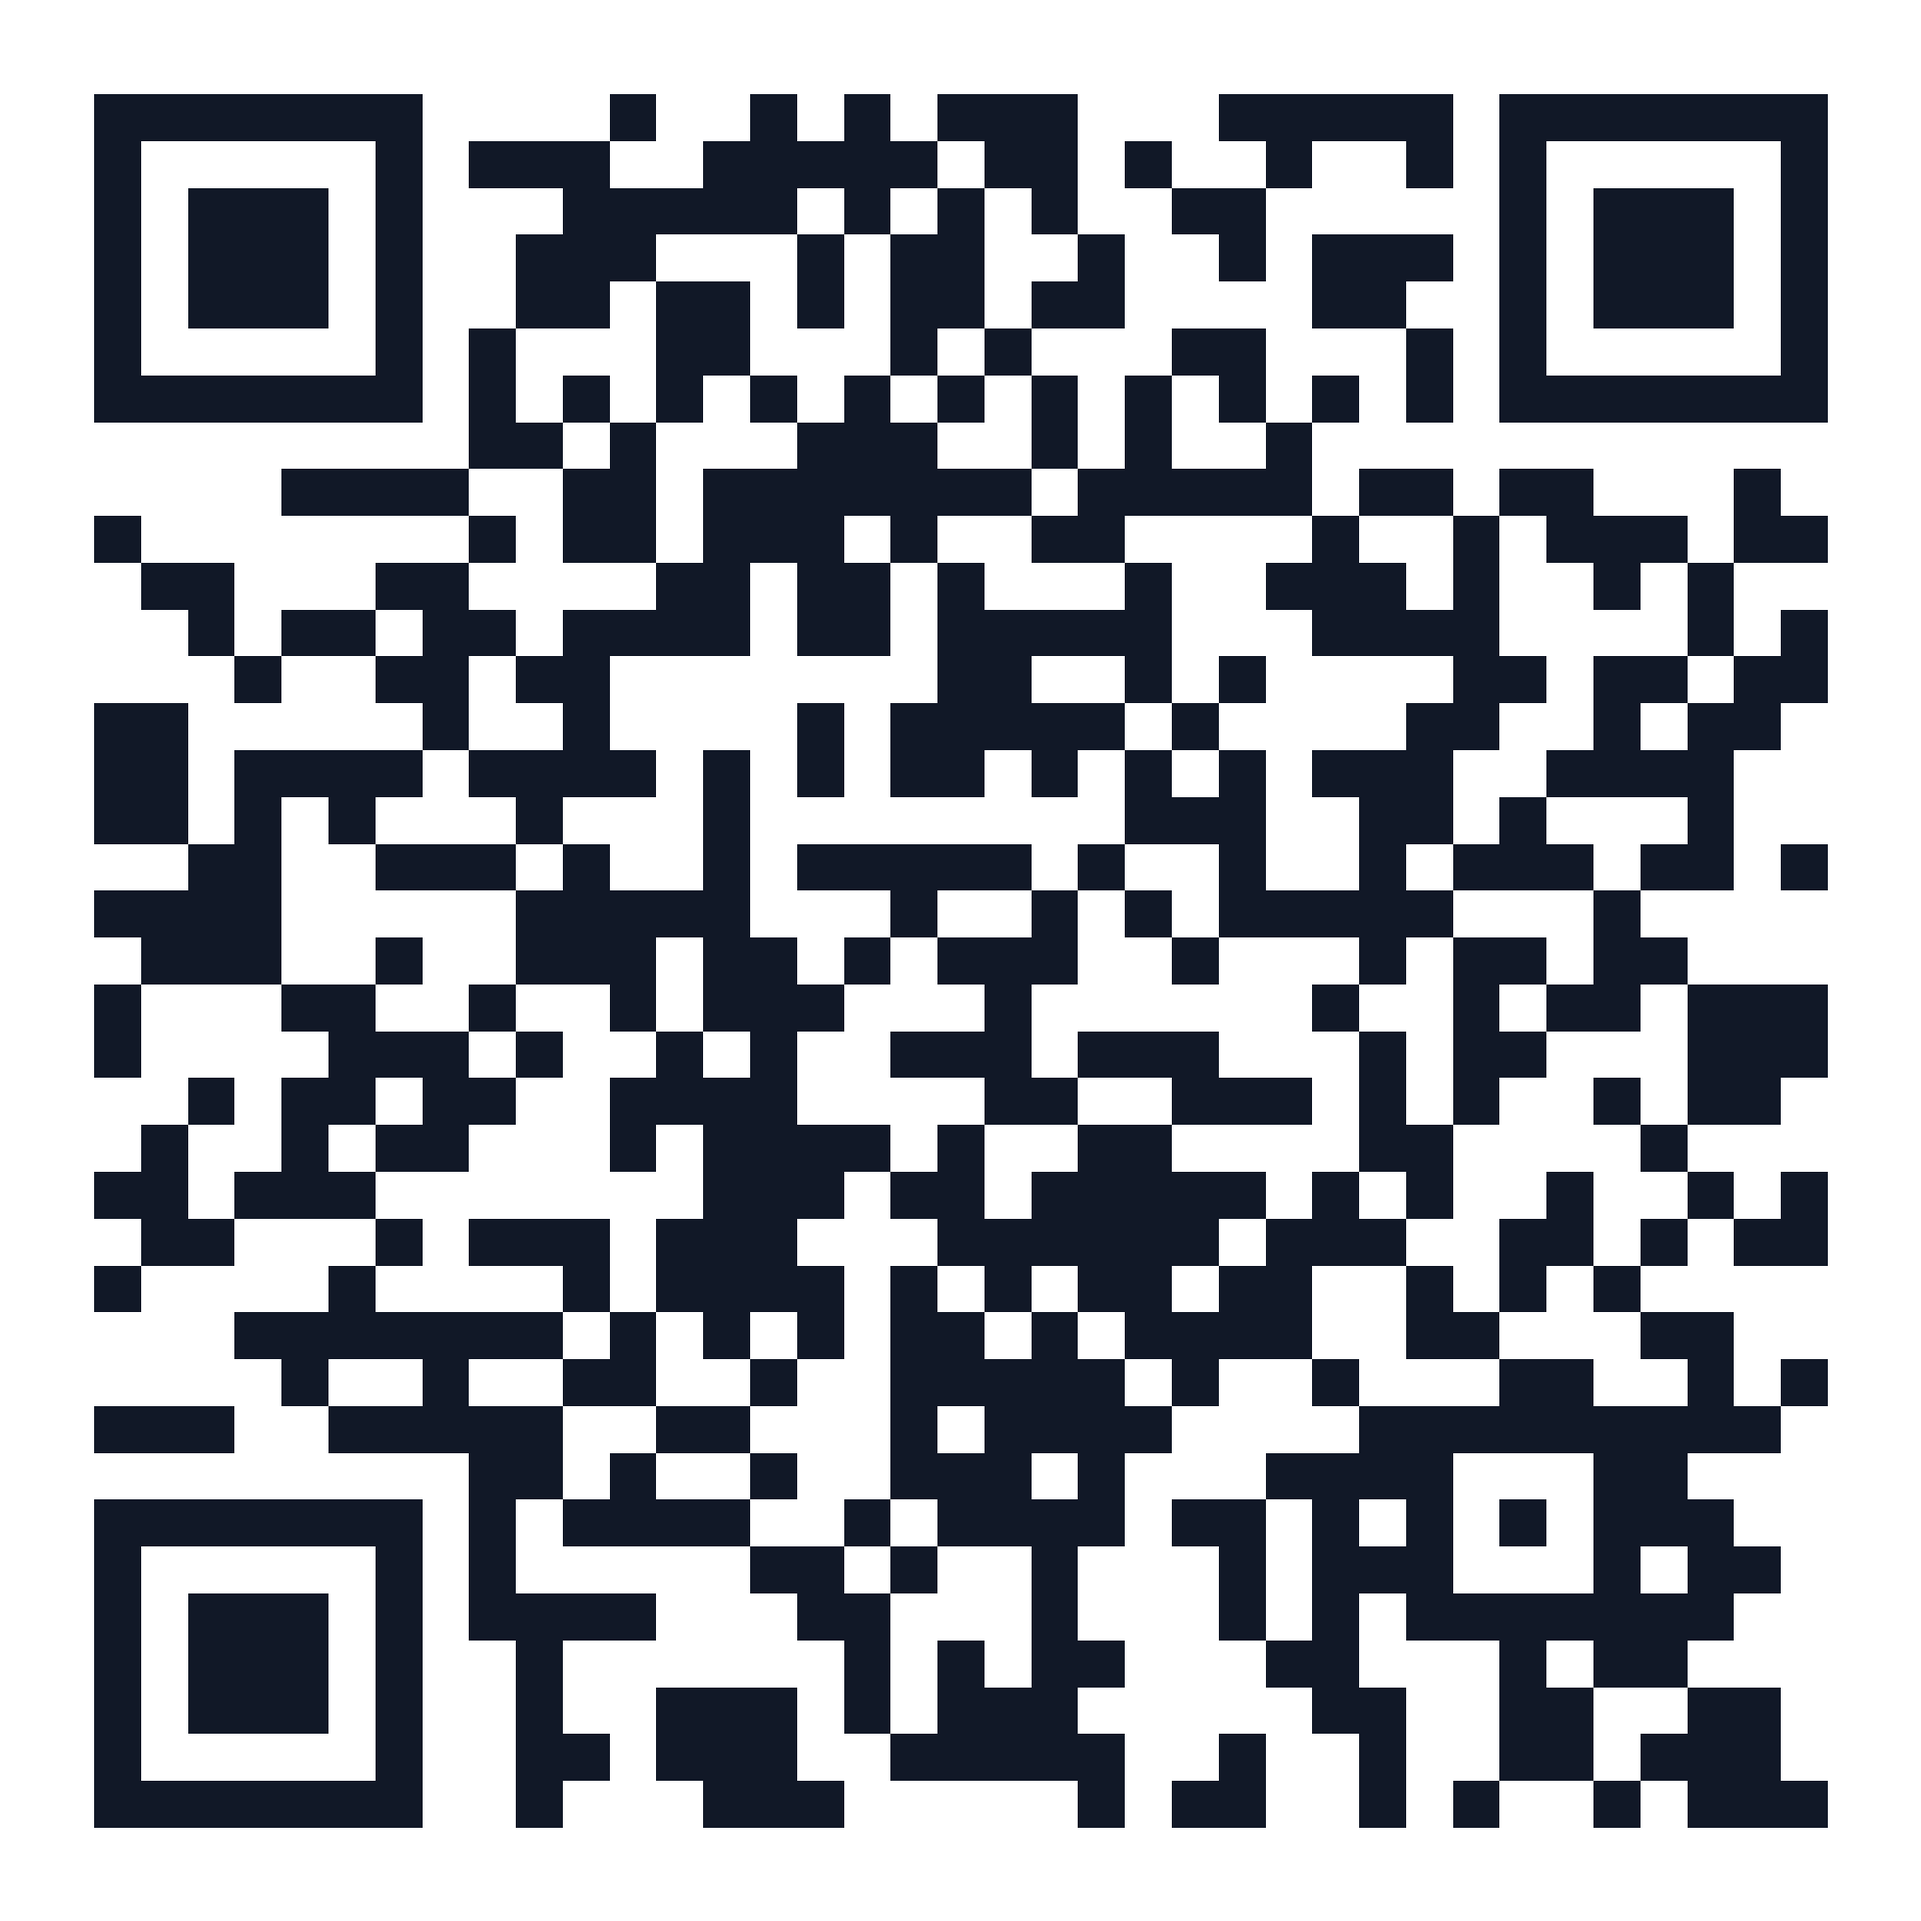
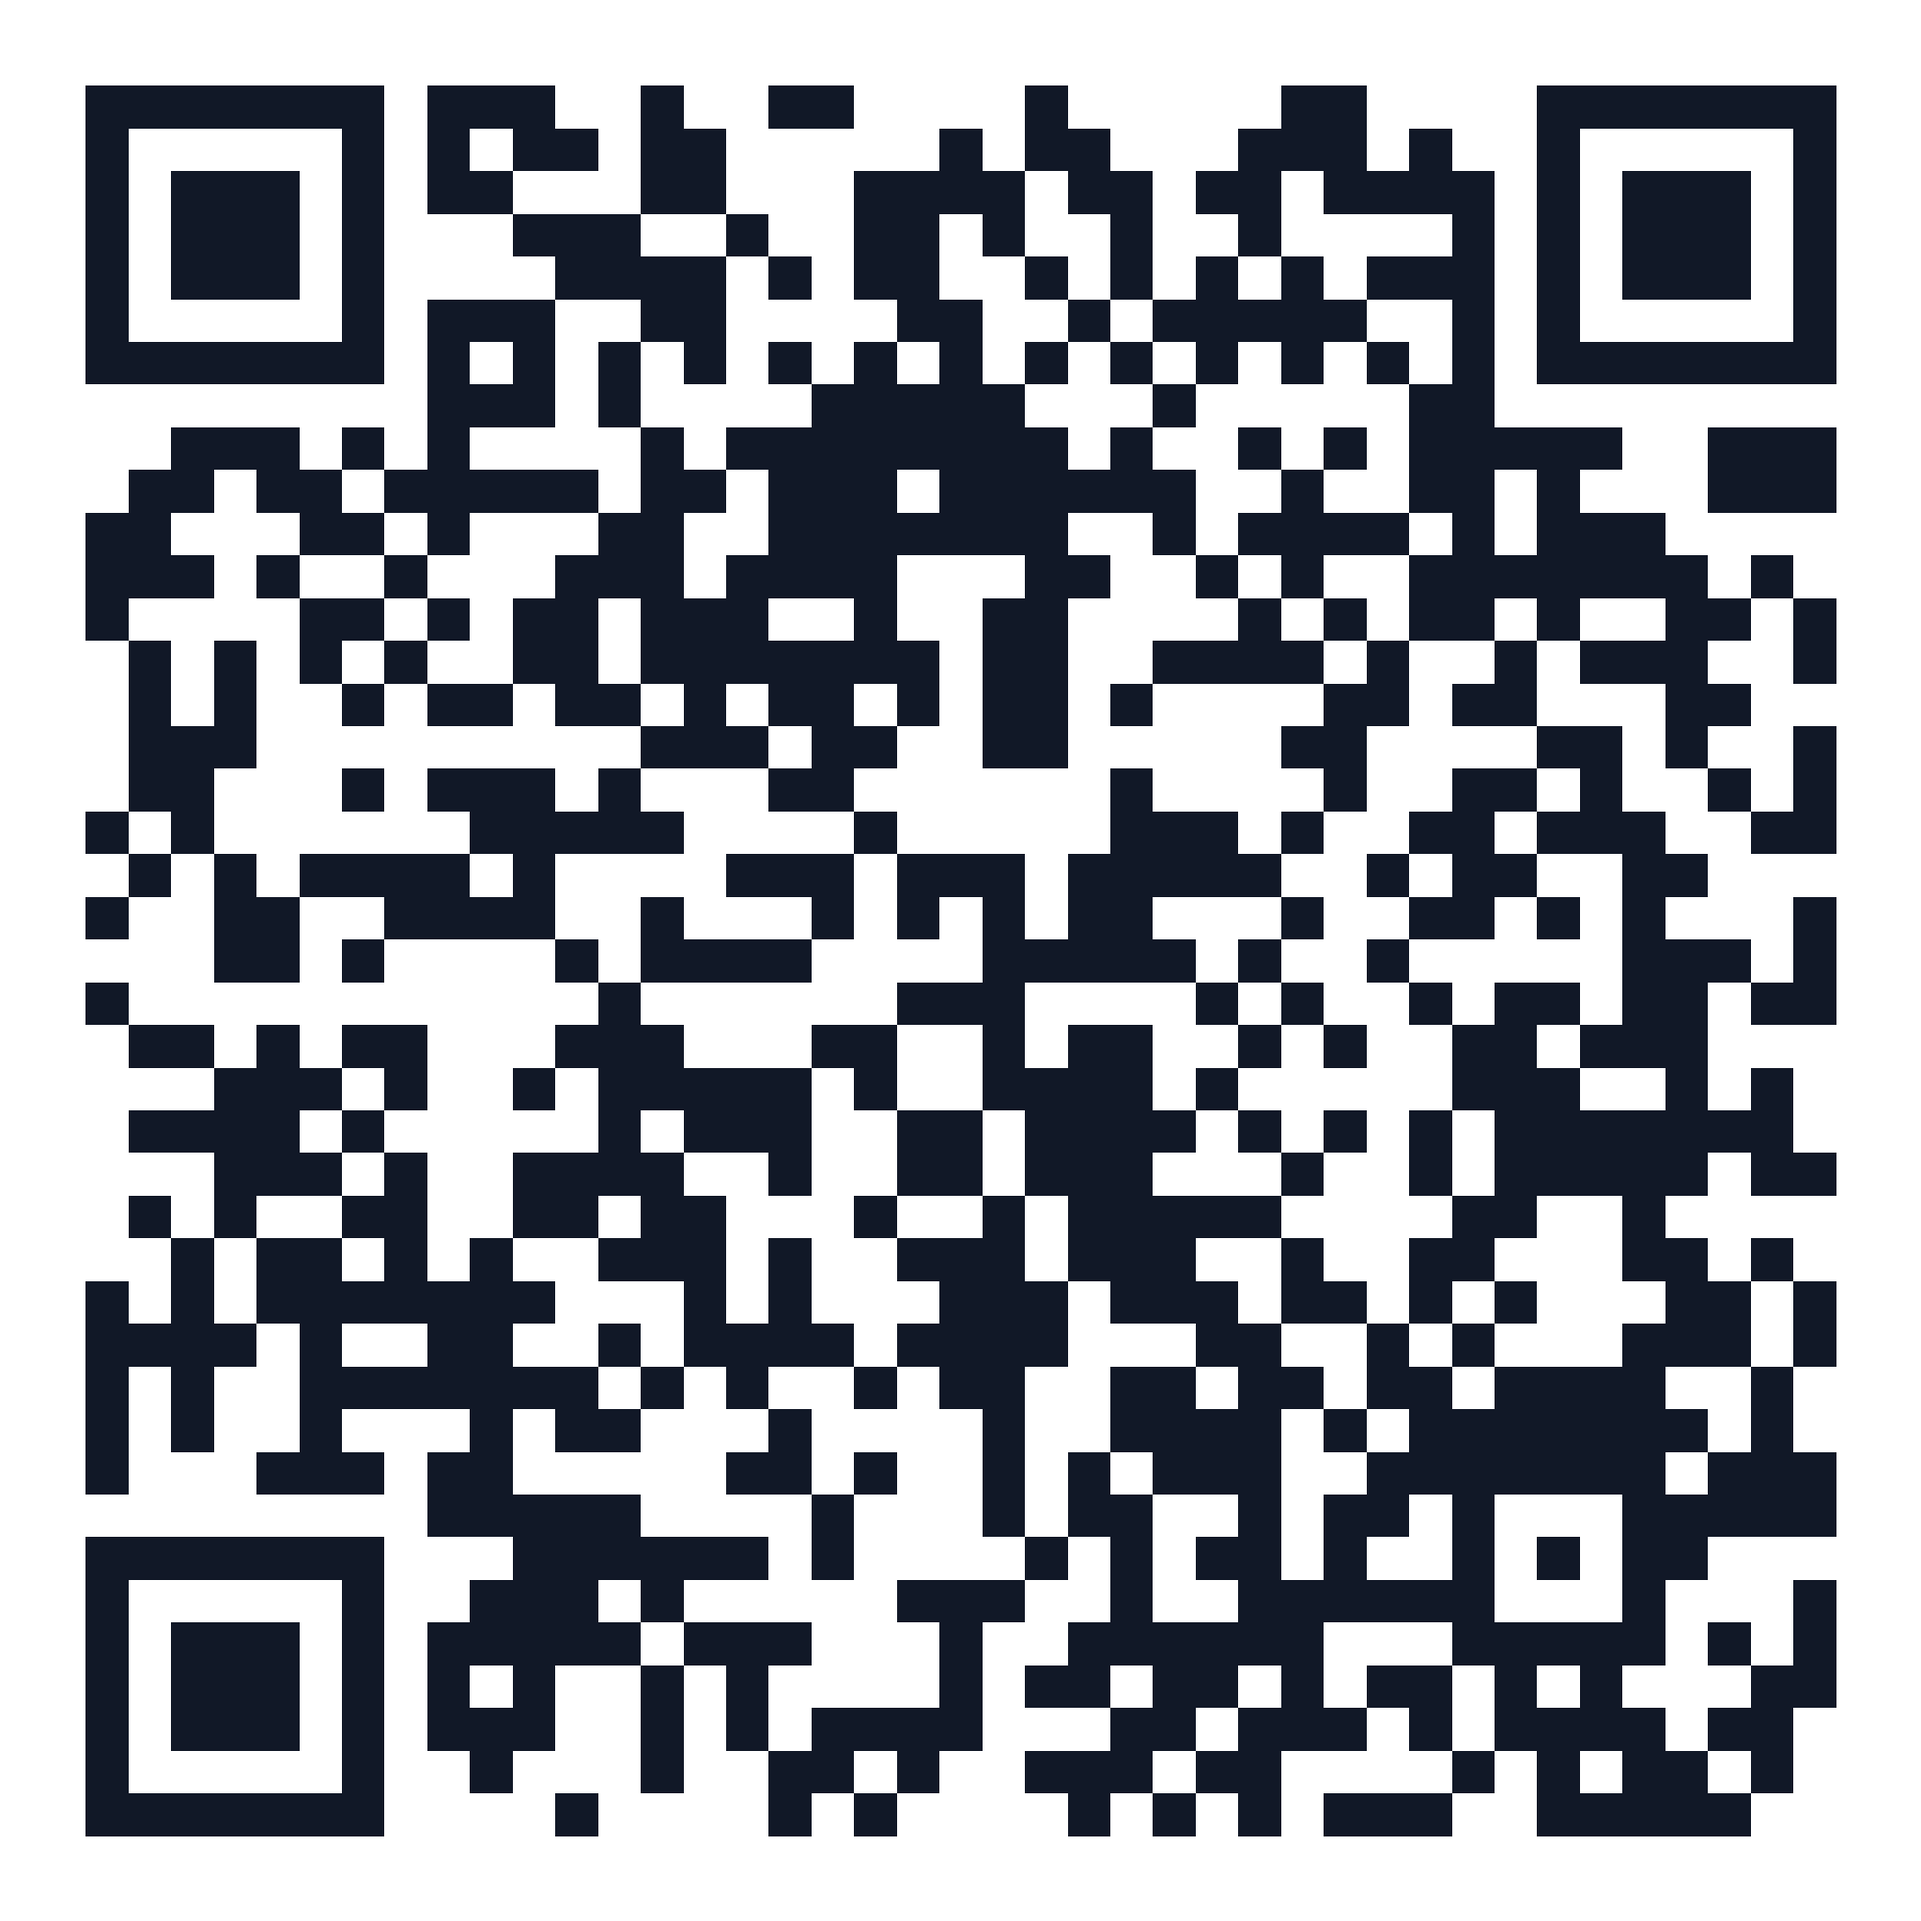
fix: switch from share.google bot tracking link to clean search link to remove captcha

diff --git a/index.html b/index.html
@@ -76,9 +76,9 @@
       <div class="mt-6 inline-flex flex-wrap items-center justify-center gap-2 bg-slate-900/90 border border-slate-800 rounded-2xl p-2.5 sm:px-5 text-sm shadow-xl backdrop-blur-md">
         <span class="text-slate-400 font-medium">Target Link:</span>
         <code id="displayTargetUrl" class="text-sky-400 font-mono text-xs sm:text-sm bg-slate-950 px-2 py-1 rounded border border-slate-800 break-all select-all">
-          https://share.google/gZUSXx8DAtgWuPtb5
+          https://www.google.com/search?q=WITHARTE+Gallery
         </code>
-        <a href="https://share.google/gZUSXx8DAtgWuPtb5" target="_blank" rel="noopener noreferrer" 
+        <a href="https://www.google.com/search?q=WITHARTE+Gallery" target="_blank" rel="noopener noreferrer" 
            class="inline-flex items-center gap-1 text-xs bg-sky-600 hover:bg-sky-500 text-white font-medium px-3 py-1.5 rounded-lg transition-colors">
           <span>Test Link</span>
           <svg class="w-3.5 h-3.5" fill="none" stroke="currentColor" viewBox="0 0 24 24"><path stroke-linecap="round" stroke-linejoin="round" stroke-width="2" d="M10 6H6a2 2 0 00-2 2v10a2 2 0 002 2h10a2 2 0 002-2v-4M14 4h6m0 0v6m0-6L10 14"></path></svg>
@@ -354,7 +354,7 @@
   </div>
 
   <script>
-    const TARGET_URL = 'https://share.google/gZUSXx8DAtgWuPtb5';
+    const TARGET_URL = 'https://www.google.com/search?q=WITHARTE+Gallery';
     let currentMode = 'direct';
     let currentQrInstance = null;
 

diff --git a/r/index.html b/r/index.html
@@ -4,12 +4,12 @@
   <meta charset="UTF-8">
   <meta name="viewport" content="width=device-width, initial-scale=1.0">
   <title>Redirecting...</title>
-  <meta http-equiv="refresh" content="0; url=https://share.google/gZUSXx8DAtgWuPtb5">
+  <meta http-equiv="refresh" content="0; url=https://www.google.com/search?q=WITHARTE+Gallery">
   <script>
-    window.location.replace("https://share.google/gZUSXx8DAtgWuPtb5");
+    window.location.replace("https://www.google.com/search?q=WITHARTE+Gallery");
   </script>
 </head>
 <body style="font-family: system-ui; display: flex; align-items: center; justify-content: center; height: 100vh; background: #0f172a; color: white;">
-  <p>Redirecting... <a href="https://share.google/gZUSXx8DAtgWuPtb5" style="color: #38bdf8;">Click here if not redirected</a>.</p>
+  <p>Redirecting... <a href="https://www.google.com/search?q=WITHARTE+Gallery" style="color: #38bdf8;">Click here if not redirected</a>.</p>
 </body>
 </html>

diff --git a/go/index.html b/go/index.html
@@ -4,9 +4,9 @@
   <meta charset="UTF-8">
   <meta name="viewport" content="width=device-width, initial-scale=1.0">
   <title>Redirecting to Destination...</title>
-  <meta http-equiv="refresh" content="0; url=https://share.google/gZUSXx8DAtgWuPtb5">
+  <meta http-equiv="refresh" content="0; url=https://www.google.com/search?q=WITHARTE+Gallery">
   <script>
-    window.location.replace("https://share.google/gZUSXx8DAtgWuPtb5");
+    window.location.replace("https://www.google.com/search?q=WITHARTE+Gallery");
   </script>
   <style>
     body {
@@ -43,6 +43,6 @@
 <body>
   <div class="spinner"></div>
   <p>Redirecting you securely to your link...</p>
-  <p><small>If you are not redirected automatically, <a href="https://share.google/gZUSXx8DAtgWuPtb5">click here</a>.</small></p>
+  <p><small>If you are not redirected automatically, <a href="https://www.google.com/search?q=WITHARTE+Gallery">click here</a>.</small></p>
 </body>
 </html>

diff --git a/api/go.js b/api/go.js
@@ -2,7 +2,7 @@
 // Supports environment variable DESTINATION_URL if you ever want to change it via Vercel dashboard
 
 export default function handler(req, res) {
-  const targetUrl = process.env.DESTINATION_URL || 'https://share.google/gZUSXx8DAtgWuPtb5';
+  const targetUrl = process.env.DESTINATION_URL || 'https://www.google.com/search?q=WITHARTE+Gallery';
   
   // Set cache headers so edge caches for fast responses but revalidates
   res.setHeader('Cache-Control', 's-maxage=60, stale-while-revalidate=300');

diff --git a/server.js b/server.js
@@ -3,7 +3,7 @@ const fs = require('fs');
 const path = require('path');
 
 const DEFAULT_PORT = parseInt(process.env.PORT, 10) || 3000;
-const TARGET_URL = process.env.DESTINATION_URL || 'https://share.google/gZUSXx8DAtgWuPtb5';
+const TARGET_URL = process.env.DESTINATION_URL || 'https://www.google.com/search?q=WITHARTE+Gallery';
 
 const MIME_TYPES = {
   '.html': 'text/html; charset=utf-8',

diff --git a/generate-qr.js b/generate-qr.js
@@ -2,7 +2,7 @@ const QRCode = require('qrcode');
 const fs = require('fs');
 const path = require('path');
 
-const TARGET_URL = 'https://share.google/gZUSXx8DAtgWuPtb5';
+const TARGET_URL = 'https://www.google.com/search?q=WITHARTE+Gallery';
 
 async function generateQRCodes() {
   console.log(`Generating permanent QR codes for: ${TARGET_URL}`);
